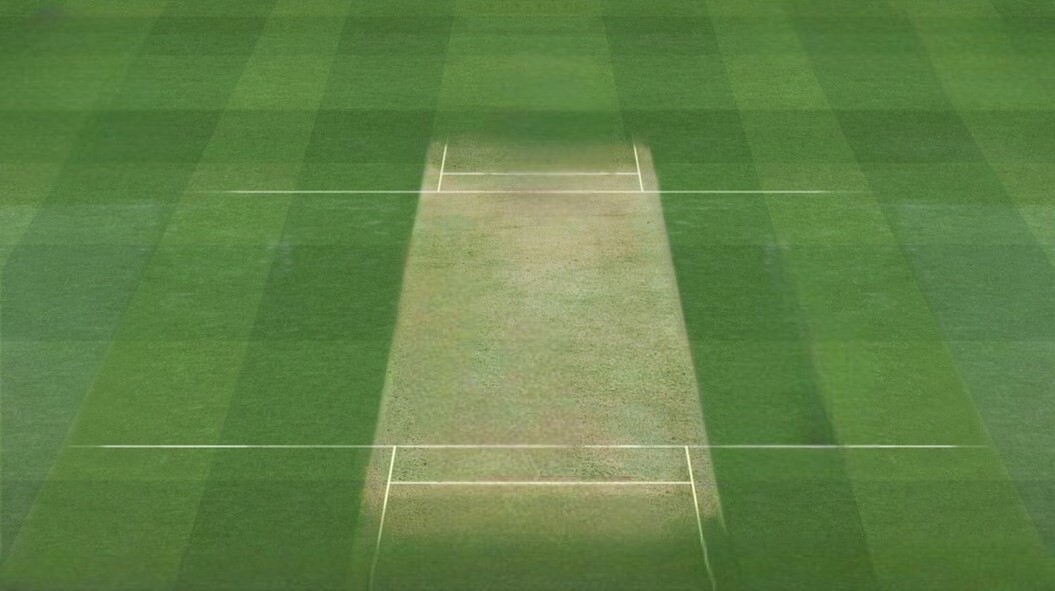
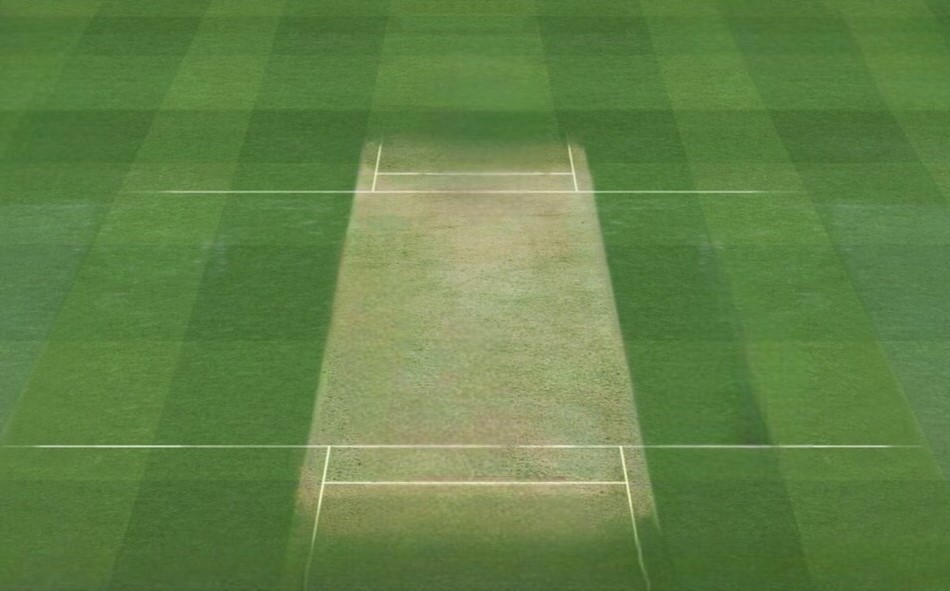
gameplay changes

diff --git a/backup.py b/backup.py
@@ -1,6 +1,22 @@
 import pygame
 from settings import *
 
+# FUNCTIONS
+
+def get_frames(player,action,scale=None):
+    # taking all the frames in a dictionary
+    frames, c = {}, 0
+    while True:
+        try:
+            file = f'graphics/{player}/{action}/frame-{c+1}.png'
+            frame = pygame.image.load(file).convert_alpha()
+            if scale != None:
+                frame = pygame.transform.scale(frame, scale)
+            frames[c] = frame
+            c+=1
+        except: break
+    return frames
+
 
 # SPRITES
 
@@ -8,42 +24,32 @@ class BATSMAN(pygame.sprite.Sprite):
 
     """
         SPRITE DESCRIPTION 
-        a single sprite for the player
+        a single batsman sprite for the player
     """
     def __init__(self):
         super().__init__()
-        self.animation_state = "start"
-        self.get_frames("batsman", "start")
 
         # class vaiables
         self.sign = 1        
         self.t = 0
         self.key_pressed = False
 
+        self.animation_state = "start"
+        self.update_frames("start")
+
     """ 
         get the correct images for the animation as frames
-        anomations have either 4 or 5 frames 
+        animations have either 4 or 5 frames 
     """
-    def get_frames(self, player, action):
+    def update_frames(self, action):
 
         # dictionary containing frames
-        self.frames = {}
+        self.frames = get_frames("batsman",action,scale=(225,197))
         self.frame_index = 0
-
-        # taking all the frames in a dictionary
-        c = 0
-        while True:
-            try:
-                file = f'graphics/{player}/{action}/frame-{c+1}.png'
-                frame = pygame.image.load(file).convert_alpha()
-                frame = pygame.transform.scale(frame, (225,197))
-                self.frames[c] = frame
-                c+=1
-            except: break
 
         # animation order
         self.image = self.frames[int(self.frame_index)]  
-        self.rect = self.image.get_rect(midbottom=pitch_mid_point)
+        self.rect = self.image.get_rect(midbottom=pitch_top_point)
 
     """
         check player input
@@ -51,7 +57,7 @@ class BATSMAN(pygame.sprite.Sprite):
     def player_input(self):
         keys = pygame.key.get_pressed()
         if keys[pygame.K_SPACE] and self.animation_state == "waiting":
-            self.get_frames("batsman", "straight-loft")
+            self.update_frames("straight-loft")
             self.animation_state = "shot" 
             self.sign = 1
 
@@ -65,7 +71,7 @@ class BATSMAN(pygame.sprite.Sprite):
             if self.frame_index < 1: self.frame_index += 0.01
             elif 1 <= self.frame_index < 3: self.frame_index += 0.2 
             elif self.frame_index >= 3: 
-                self.get_frames("batsman", "waiting")
+                self.update_frames("waiting")
                 self.animation_state = "waiting"
 
         elif self.animation_state == "waiting":
@@ -88,7 +94,7 @@ class BATSMAN(pygame.sprite.Sprite):
         elif self.animation_state == "shot":
 
             if self.sign == -1: 
-                self.get_frames("batsman", "start")
+                self.update_frames("start")
                 self.animation_state = "start"
                 self.key_pressed = False
             
@@ -106,7 +112,7 @@ class BATSMAN(pygame.sprite.Sprite):
 
         # updating the image 
         self.image = self.frames[int(self.frame_index)]  
-        self.rect = self.image.get_rect(midbottom=pitch_mid_point)
+        self.rect = self.image.get_rect(midbottom=pitch_top_point)
 
     """
         to update the sprite
@@ -120,26 +126,88 @@ class BATSMAN(pygame.sprite.Sprite):
 
 
 class BOWLER(pygame.sprite.Sprite):
-    def __init__(self, type):
-        pass
 
+    """
+        SPRITE DESCRIPTION 
+        a single bowler sprite for the computer
+    """
+    def __init__(self):
+        super().__init__()  
+
+        # class variables
+        self.pos = (over_the_wicket, screen_height-40)      
+        self.t = 0
+        self.wait = True
+
+        self.animation_state = "fast"
+        self.update_frames("fast")
+
+    """ 
+        get the correct images for the animation as frames
+        bowling animations have around 30 frames
+    """
+    def update_frames(self, action):
+
+        # dictionary containing frames
+        self.frames = get_frames("bowler",action,(355,400))
+        self.frame_index = 0
+
+        # animation order
+        self.image = self.frames[int(self.frame_index)]  
+        self.rect = self.image.get_rect(midbottom=self.pos)
+
+    """
+        get frames according to the animation playing
+        to ensure correct order of frames 
+    """
+    def animation(self):
+
+        if self.wait:
+            self.t +=1
+            if self.t >= 300:
+                self.t = 0
+                self.wait = False
+
+        else:
+            if self.frame_index >= len(self.frames)-1: 
+                self.t += 1
+                
+                # time delay after last frame
+                if self.t >= 180: 
+                    self.wait = True
+                    self.frame_index = 0
+                    self.t = 0
+                
+            else: self.frame_index += 0.25
+
+        # updating the image 
+        self.image = self.frames[int(self.frame_index)]  
+        self.rect = self.image.get_rect(midbottom=self.pos)
+
+
+    """
+        to update the sprite
+        60 frames per second
+        1 frame - 1.66 second
+    """
     def update(self):
-        pass
+        self.animation()
+
 
 
 class BALL(pygame.sprite.Sprite):
     def __init__(self):
         super().__init__()
-        self.image = pygame.image.load("graphics/cricket-ball.png")
-        self.image = pygame.transform.scale(self.image, (12,12))
-        self.rect = self.image.get_rect(midbottom=(375,380))
+        self.image = pygame.image.load("graphics/white-ball.png")
+        self.image = pygame.transform.scale(self.image, (10,10))
+        self.rect = self.image.get_rect(midbottom=ball_release_pt)
     
     def update(self):
         if self.rect.y >= 250:
-            self.rect.y += -5
+            self.rect.y += -3
             self.rect.x += 0.5
         else:
-            self.rect.y += -5
+            self.rect.y += -3
             self.rect.x -= 0.5
 
         if self.rect.y <= 175:

diff --git a/sprites.py b/sprites.py
@@ -135,7 +135,7 @@ class BOWLER(pygame.sprite.Sprite):
         super().__init__()  
 
         # class variables
-        self.pos = (over_the_wicket, screen_height)      
+        self.pos = (over_the_wicket, screen_height-40)      
         self.t = 0
         self.wait = True
 
@@ -161,7 +161,7 @@ class BOWLER(pygame.sprite.Sprite):
         to ensure correct order of frames 
     """
     def animation(self):
-
+        
         if self.wait:
             self.t +=1
             if self.t >= 300:
@@ -179,7 +179,7 @@ class BOWLER(pygame.sprite.Sprite):
                     self.t = 0
                 
             else: self.frame_index += 0.25
-
+        
         # updating the image 
         self.image = self.frames[int(self.frame_index)]  
         self.rect = self.image.get_rect(midbottom=self.pos)
@@ -198,16 +198,16 @@ class BOWLER(pygame.sprite.Sprite):
 class BALL(pygame.sprite.Sprite):
     def __init__(self):
         super().__init__()
-        self.image = pygame.image.load("graphics/cricket-ball.png")
-        self.image = pygame.transform.scale(self.image, (12,12))
-        self.rect = self.image.get_rect(midbottom=(375,380))
+        self.image = pygame.image.load("graphics/white-ball.png")
+        self.image = pygame.transform.scale(self.image, (10,10))
+        self.rect = self.image.get_rect(midbottom=ball_release_pt)
     
     def update(self):
         if self.rect.y >= 250:
-            self.rect.y += -5
+            self.rect.y += -3
             self.rect.x += 0.5
         else:
-            self.rect.y += -5
+            self.rect.y += -3
             self.rect.x -= 0.5
 
         if self.rect.y <= 175:

diff --git a/main.py b/main.py
@@ -3,10 +3,23 @@ from sys import exit
 from settings import *
 from sprites import *
 
+# for opaque surface
+def blit_alpha(target, source, location, opacity):
+        x = location[0]
+        y = location[1]
+        temp = pygame.Surface((source.get_width(), source.get_height())).convert()
+        temp.blit(target, (-x, -y))
+        temp.blit(source, (0, 0))
+        temp.set_alpha(opacity)        
+        target.blit(temp, location)
+
 pygame.init()
 screen = pygame.display.set_mode((screen_width,screen_height))
 pygame.display.set_caption("Cricket")
 clock = pygame.time.Clock()
+
+scoreboard = pygame.Surface((screen_width,scoreboard_height))
+scoreboard.fill("#36454F")
 
 pitch = pygame.image.load('graphics/background.jpg').convert()
 pitch = pygame.transform.scale(pitch, (screen_width, screen_height))
@@ -25,11 +38,11 @@ while True:
         if event.type == pygame.QUIT:
             pygame.quit()
             exit()
-        """
+        
         if event.type == pygame.KEYDOWN:
-               if event.key == pygame.K_SPACE:
+               if event.key == pygame.K_UP:
                    ball.add(BALL())
-        """
+        
 
     screen.blit(pitch,(0,0))
 
@@ -37,10 +50,11 @@ while True:
     player.update()
     computer.draw(screen)
     computer.update()
-
-    """
+    
     ball.draw(screen)
     ball.update()
-    """
+
+    screen.blit(scoreboard,(0,screen_height-scoreboard_height))
+    
     pygame.display.update()
     clock.tick(60)

diff --git a/settings.py b/settings.py
@@ -1,6 +1,10 @@
 # display
-screen_width, screen_height = 1024, 600
+screen_width, screen_height = 800, 600
+scoreboard_height = 40
 
 # cricket pitch
 pitch_top_point = (screen_width/2 + 30, screen_height/2.85)
-over_the_wicket = screen_width/2 - 90
+over_the_wicket = screen_width/2 - 100
+
+# ball-bowler
+ball_release_pt = (325,250)
